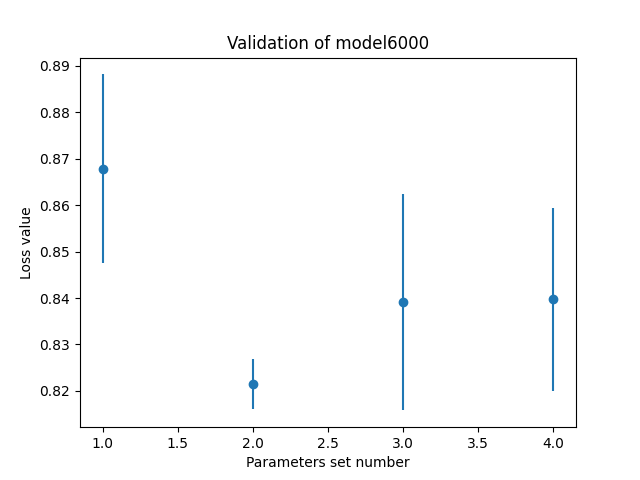
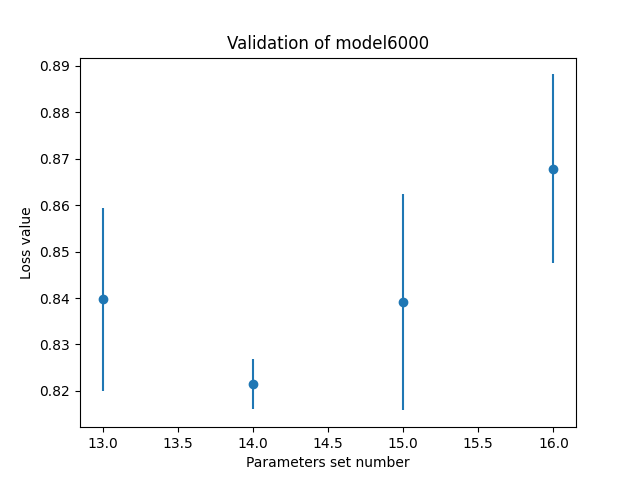
Slight modifications in results graphs

diff --git a/plot_graphs.py b/plot_graphs.py
@@ -59,7 +59,7 @@ def errorbars_plot(x, ymean, ymin, ymax, title):
     plt.ylabel('Loss value')
     plt.errorbar(x, ymean, yerr=yerr, fmt='o', label='Simulations')
     plt.title(title)
-    plt.savefig("./other/graphs//{}".format(title))
+    plt.savefig("./other/graphs/{}".format(title))
 
 def model800_validated_errorbars():
     x = np.linspace(1, 24, 24)
@@ -74,9 +74,11 @@ def model800_validated_errorbars():
     errorbars_plot(x, losses_mean, losses_min, losses_max, 'Validation of model800')
 
 def model6000_validated_errorbars():
-    x = np.linspace(1, 4, 4)
-    losses = [[0.847500530434425, 0.8160113169647802, 0.8157910783364376, 0.8594888867015318],
-              [0.8881682209536967, 0.8268874593089663, 0.862405197471224, 0.8200220964624049]]
+    x = np.linspace(13, 16, 4)
+    # losses = [[0.847500530434425, 0.8160113169647802, 0.8157910783364376, 0.8594888867015318],
+    #           [0.8881682209536967, 0.8268874593089663, 0.862405197471224, 0.8200220964624049]]
+    losses = [[0.8594888867015318, 0.8160113169647802, 0.8157910783364376, 0.847500530434425],
+              [0.8200220964624049, 0.8268874593089663, 0.862405197471224, 0.8881682209536967]]
     losses_min = np.min(losses, axis=0)
     losses_max = np.max(losses, axis=0)
     losses_mean = np.mean(losses, axis=0)

diff --git a/frcnn_test.py b/frcnn_test.py
@@ -238,9 +238,8 @@ def plot_roc(fpr, tpr, class_name, thresholds):
     plt.figure()
     plt.plot(fpr, tpr, lw=2)
     plt.title('[' + class_name + ']' + 'ROC')
-    plt.xlabel('Recall')
-    plt.ylabel('Precision')
-    plt.xlim([0.0, 1.0])
+    plt.xlabel('False Positive Rate')
+    plt.ylabel('True Positive Rate')
     plt.ylim([0.0, 1.0])
     plt.savefig("./graphs/{}_roc_{}".format(args.model_name, str(class_name)))
 
